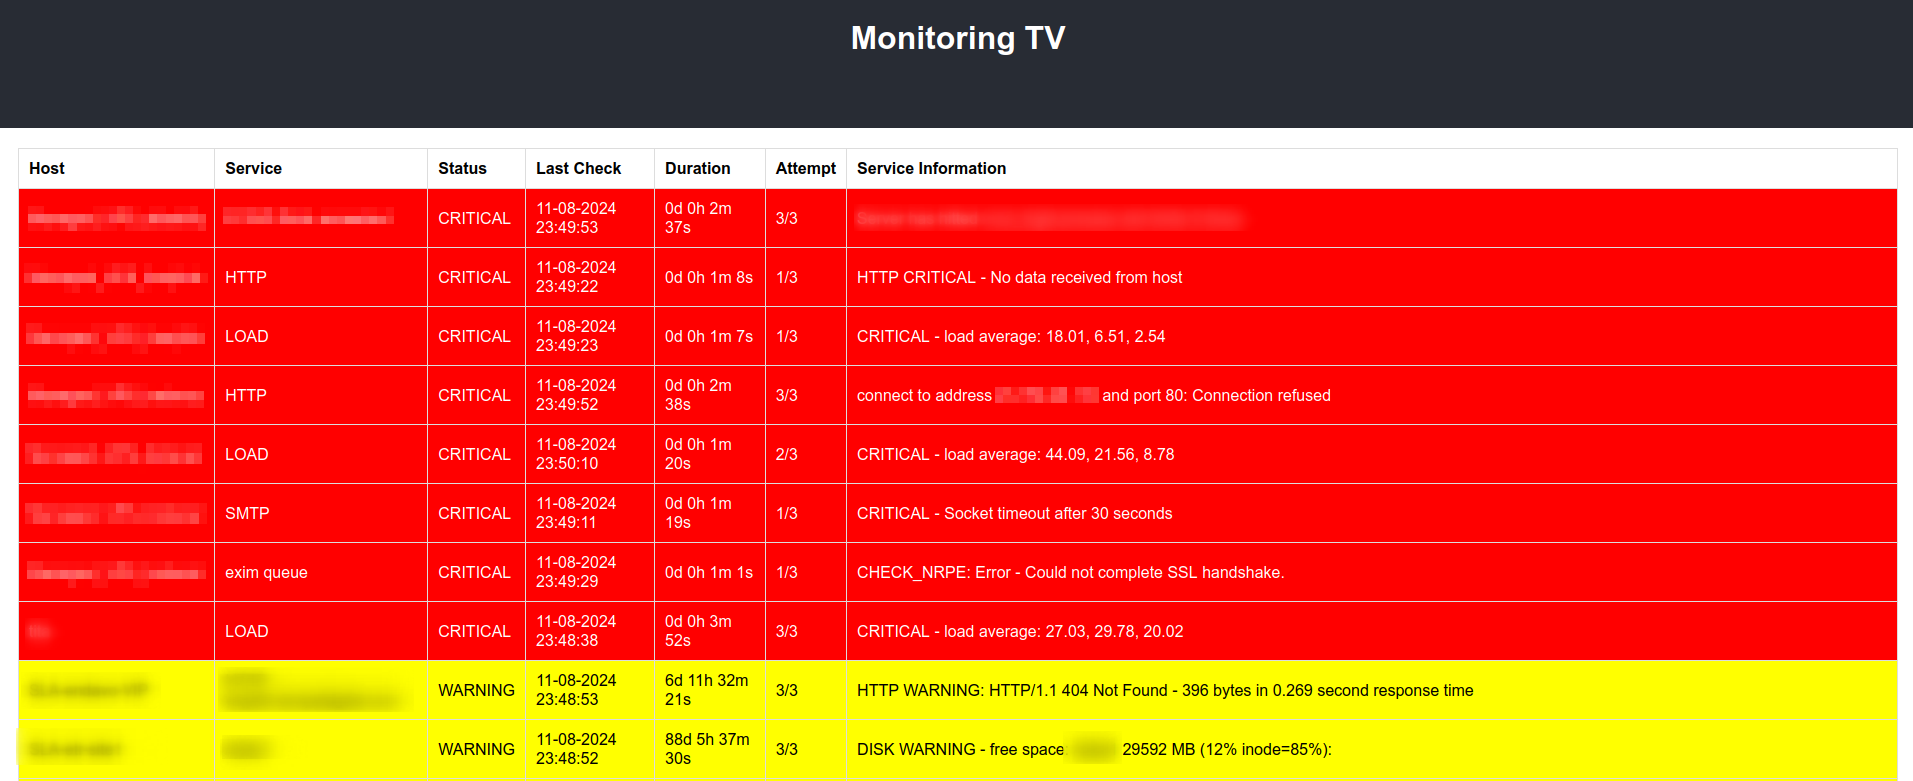
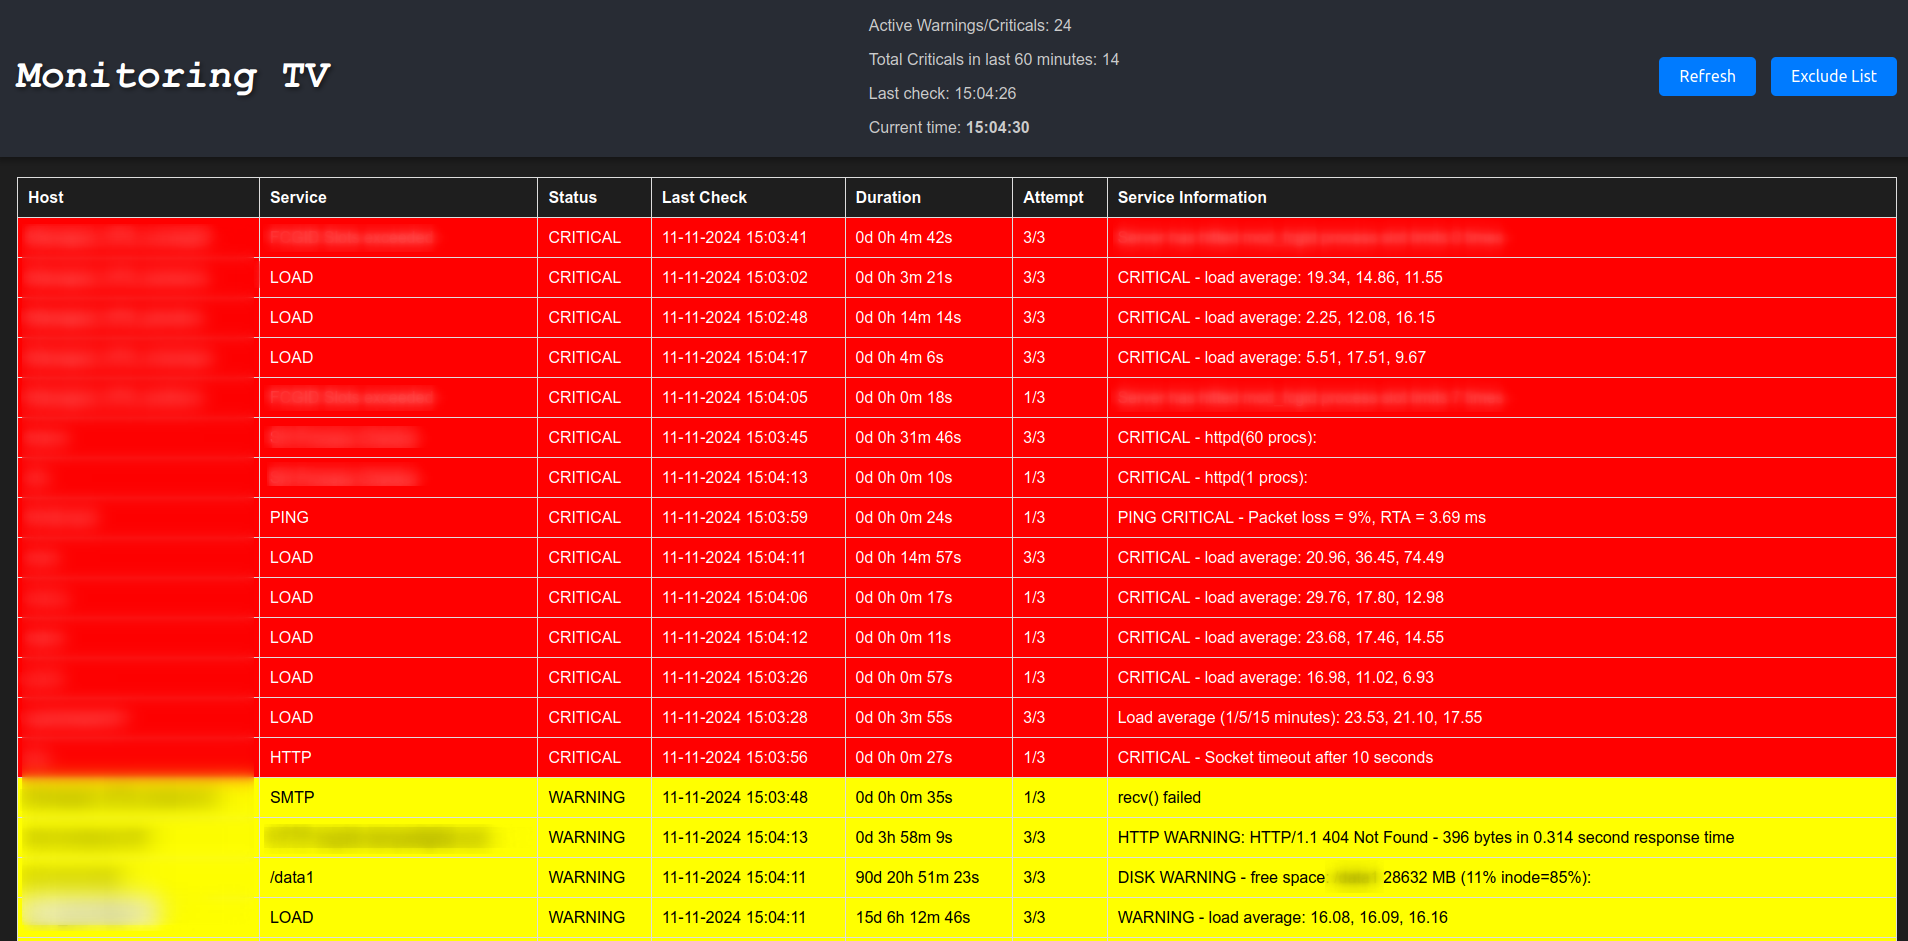
Add Exclude List modal display, improve header layout, and decode service names
- Serve exclude.txt content in modal via /get-exclude endpoint
- Stack header info (warnings, criticals, last check, time) vertically
- Display 'Current time:' label with live clock
- Decode service names to replace '+' with spaces and show '/' correctly

Changed region(s): [[0.0, 0.0, 1.0, 1.0], [0.8658, 0.0615, 1.0, 0.1229], [0.0, 0.0615, 0.1855, 0.0922]]

diff --git a/public/script.js b/public/script.js
@@ -1,4 +1,5 @@
-setInterval(() => {
+// Function to update the data in the dashboard
+const updateData = () => {
     fetch('/status')
         .then(response => {
             if (!response.ok) {
@@ -7,23 +8,24 @@ setInterval(() => {
             return response.json();
         })
         .then(data => {
-            console.log("Received data:", data);
+            console.log("Received data:", data); // Log data to the browser console
             const activeCount = data.warnings.length + data.criticals.length;
             const totalCriticals = data.criticals.length;
             const lastCheck = data.lastCheckTime;
 
+            // Update header info
             document.getElementById('active-count').innerText = `Active Warnings/Criticals: ${activeCount}`;
             document.getElementById('total-criticals').innerText = `Total Criticals in last 60 minutes: ${totalCriticals}`;
             document.getElementById('last-check').innerText = `Last check: ${lastCheck}`;
-            document.getElementById('time').innerText = moment().tz("Europe/Sofia").format('HH:mm:ss');
+            document.getElementById('current-time').innerText = moment().tz("Europe/Sofia").format('HH:mm:ss');
 
             const alertsTableBody = document.getElementById('alerts-table').querySelector('tbody');
-            alertsTableBody.innerHTML = '';
+            alertsTableBody.innerHTML = ''; 
 
             const renderRow = (item, statusClass) => {
                 const row = document.createElement('tr');
                 row.className = statusClass;
-                row.innerHTML = `
+                row.innerHTML = ` 
                     <td>${item.host}</td>
                     <td>${item.service}</td>
                     <td>${item.state}</td>
@@ -41,4 +43,46 @@ setInterval(() => {
         .catch(error => {
             console.error('Error fetching status:', error);
         });
-}, 5000);
+};
+
+// Set up an interval to refresh data every 5 seconds
+setInterval(updateData, 5000);
+
+// Refresh button functionality to reload data immediately
+document.getElementById("refresh-btn").addEventListener("click", updateData);
+
+// Exclude List modal functionality
+const excludeBtn = document.getElementById("exclude-btn");
+const excludeModal = document.getElementById("exclude-modal");
+const closeBtn = document.querySelector(".close");
+const excludeContent = document.getElementById("exclude-content");
+
+// Fetch and display the exclude list content in the modal
+document.getElementById("exclude-btn").addEventListener("click", async () => {
+    const excludeModal = document.getElementById("exclude-modal");
+    excludeModal.style.display = "flex";
+    
+    try {
+        const response = await fetch('/get-exclude');
+        const text = await response.text();
+        document.getElementById("exclude-content").textContent = text; // Display plain text in <pre> element
+    } catch (error) {
+        document.getElementById("exclude-content").textContent = "Error loading exclude list.";
+    }
+});
+
+// Close modal functionality
+document.querySelector(".close").onclick = function() {
+    document.getElementById("exclude-modal").style.display = "none";
+};
+
+// Close modal when clicking outside the content
+window.onclick = function(event) {
+    const excludeModal = document.getElementById("exclude-modal");
+    if (event.target === excludeModal) {
+        excludeModal.style.display = "none";
+    }
+};
+
+// Initial data fetch
+updateData();

diff --git a/public/styles.css b/public/styles.css
@@ -2,24 +2,64 @@ body {
     font-family: 'Arial', sans-serif;
     margin: 0;
     padding: 0;
+    background-color: #1e1e1e;
+    color: white;
 }
 
 #header {
     background-color: #282c34;
-    height: 200px;
     display: flex;
-    flex-direction: column;
-    justify-content: center;
+    justify-content: space-between;
     align-items: center;
+    padding: 20px;
+    box-shadow: 0 4px 6px rgba(0, 0, 0, 0.3);
     color: white;
-    position: relative;
+}
+
+#title {
+    font-size: 2.5em;
+    color: #ffffff;
+    text-shadow: 2px 2px 5px rgba(0, 0, 0, 0.5);
+    font-family: 'Courier New', monospace;
+    transform: skew(-5deg);
 }
 
 #header-info {
     display: flex;
-    justify-content: space-between;
-    width: 100%;
-    padding: 0 20px;
+    flex-direction: column;
+    gap: 15px;
+    font-size: 1em;
+    color: #cccccc;
+    text-align: left;
+}
+
+#header-buttons {
+    display: flex;
+    gap: 15px;
+}
+
+#time {
+    font-size: 1em;
+    color: #cccccc;
+}
+
+#current-time {
+    font-weight: bold;
+}
+
+button {
+    padding: 10px 20px;
+    font-size: 1em;
+    background-color: #007bff;
+    color: white;
+    border: none;
+    border-radius: 5px;
+    cursor: pointer;
+    transition: background 0.3s ease;
+}
+
+button:hover {
+    background-color: #0056b3;
 }
 
 #alerts {
@@ -46,4 +86,38 @@ tr.critical {
 tr.warning {
     background-color: yellow;
     color: black;
+}
+
+.modal {
+    display: none;
+    position: fixed;
+    z-index: 1000;
+    left: 0;
+    top: 0;
+    width: 100%;
+    height: 100%;
+    background-color: rgba(0, 0, 0, 0.7);
+    justify-content: center;
+    align-items: center;
+}
+
+.modal-content {
+    background-color: #fefefe;
+    padding: 20px;
+    border-radius: 8px;
+    width: 50%;
+    color: black;
+    text-align: left;
+}
+
+.close {
+    color: #aaa;
+    float: right;
+    font-size: 28px;
+    font-weight: bold;
+    cursor: pointer;
+}
+
+.close:hover {
+    color: #000;
 }

diff --git a/public/index.html b/public/index.html
@@ -1,0 +1,57 @@
+<!DOCTYPE html>
+<html lang="en">
+<head>
+    <meta charset="UTF-8">
+    <meta name="viewport" content="width=device-width, initial-scale=1.0">
+    <title>Nagios Dashboard</title>
+    <link rel="stylesheet" href="styles.css">
+</head>
+<body>
+<div id="header">
+    <h1 id="title">Monitoring TV</h1>
+    <div id="header-info">
+        <div id="active-count"></div>
+        <div id="total-criticals"></div>
+        <div id="last-check"></div>
+        <div id="time">Current time: <span id="current-time"></span></div>
+    </div>
+    <div id="header-buttons">
+        <button id="refresh-btn">Refresh</button>
+        <button id="exclude-btn">Exclude List</button>
+    </div>
+</div>
+    
+    <!-- Modal for Exclude List -->
+    <div id="exclude-modal" class="modal">
+        <div class="modal-content">
+            <span class="close">&times;</span>
+            <h2>Exclude List</h2>
+            <pre id="exclude-content"></pre>
+        </div>
+    </div>
+
+    <!-- Alerts section -->
+    <div id="alerts">
+        <table id="alerts-table">
+            <thead>
+                <tr>
+                    <th>Host</th>
+                    <th>Service</th>
+                    <th>Status</th>
+                    <th>Last Check</th>
+                    <th>Duration</th>
+                    <th>Attempt</th>
+                    <th>Service Information</th>
+                </tr>
+            </thead>
+            <tbody></tbody>
+        </table>
+    </div>
+
+    <!-- Load moment.js -->
+    <script src="https://cdnjs.cloudflare.com/ajax/libs/moment.js/2.29.4/moment.min.js"></script>
+    <script src="https://cdnjs.cloudflare.com/ajax/libs/moment-timezone/0.5.34/moment-timezone-with-data.min.js"></script>
+
+    <script src="script.js"></script>
+</body>
+</html>

diff --git a/server.js b/server.js
@@ -45,6 +45,18 @@ fs.watchFile(config.excludeFilePath, () => {
     loadExclusions();
 });
 
+// Serve the contents of exclude.txt as plain text
+app.get('/get-exclude', (req, res) => {
+    fs.readFile(config.excludeFilePath, 'utf-8', (err, data) => {
+        if (err) {
+            res.status(500).send("Error loading exclude list.");
+            return;
+        }
+        res.type('text/plain');  // Set the response type to plain text
+        res.send(data);           // Send the content of exclude.txt
+    });
+});
+
 // Function to parse the duration and convert it to days
 const parseDurationToDays = (duration) => {
     const durationMatch = duration.match(/(\d+)d\s+(\d+)h\s+(\d+)m/);
